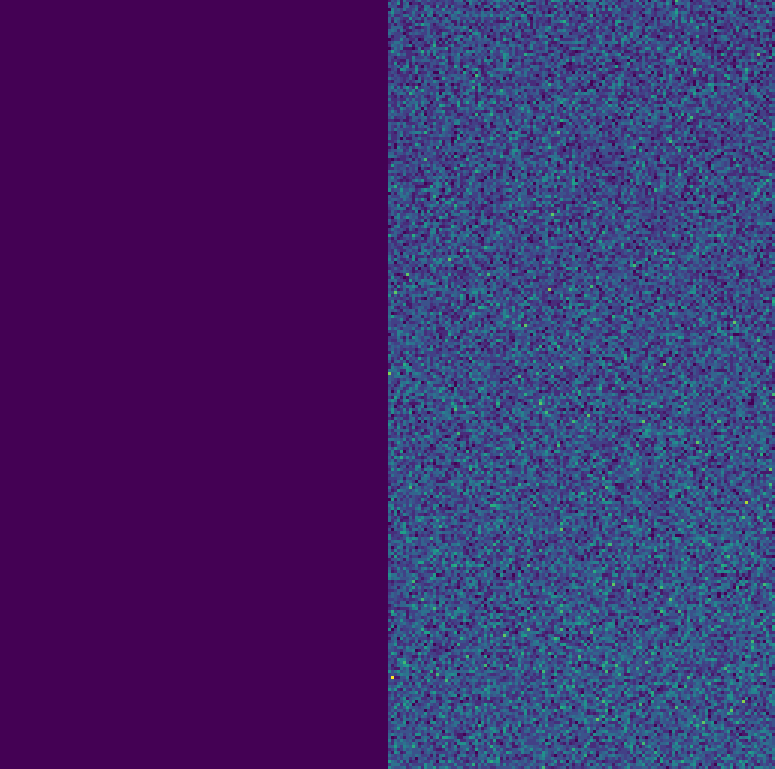
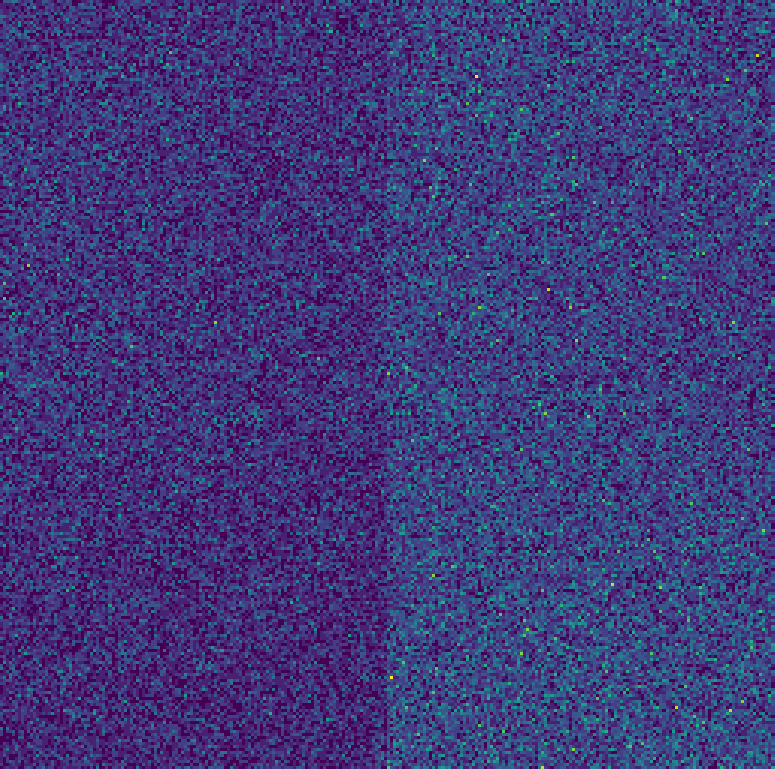
fixes made after the merge

diff --git a/experiments/toy/train_abs_unif.py b/experiments/toy/train_abs_unif.py
@@ -3,17 +3,19 @@ sys.path.append(".")
 
 import argparse
 from survae.flows import *
-from survae.transforms import Shift, Scale, ElementAbs
+from survae.transforms import Abs, Scale, Permute, ElementAbs
 from survae.nn.nets import MLP
 import survae
 from survae.data.datasets.toy import *
-from survae.distributions import StandardNormal, Bernoulli
+from survae.distributions import StandardNormal, Bernoulli, StandardUniform
 from survae.distributions import *
 from jax import random
 import jax.numpy as jnp 
 from flax import optim
 from matplotlib import pyplot as plt
-
+import ipdb
+from jax.config import config
+config.update("jax_debug_nans", True)
 
 parser = argparse.ArgumentParser()
 
@@ -70,7 +72,6 @@ elif args.dataset == 'eightgaussians':
     train_data = EightGaussiansDataset(args.train_samples).get_data()
     test_data = EightGaussiansDataset(args.test_samples).get_data()
 
-# data = EightGaussiansDataset(num_points=1000).get_data()
 
 # Define Transforms
 def init(key, shape, dtype=np.float32):
@@ -96,61 +97,45 @@ class Classifier(nn.Module):
         return x
 
 classifier = Classifier._setup([200, 100] , 1)
-# params = classifier.init(key, x)['params']
-# print(classifier.apply({'params':params}, x))
+element_abs = ElementAbs._setup(Bernoulli, classifier, 0)
 
-element_abs = ElementAbs._setup(Bernoulli, classifier, 1)
+transforms = [element_abs]
+transforms += [Shift._setup(jnp.array([0.0, 4.0])), Scale._setup(jnp.array([1/4, 1/8]))]
 
-transforms = [element_abs, Shift._setup(jnp.array([0.0, 4.0])), Scale._setup(jnp.array([1/4, 1/8]))]
 
 # Construct Flow
-absflow = AbsFlow(base_dist=StandardNormal, transforms=transforms, latent_size=(2,))
-params = absflow.init(key, rng, train_data[:2])
+absflow = AbsFlow(base_dist=StandardUniform, transforms=transforms, latent_size=(2,))
+params = absflow.init(key, rng=rng, x=train_data[:2])['params']
 
-def params_count(params):
-    _params = []
-    def flatten(_params, frozen_dict):
-        for k in frozen_dict:
-            if type(frozen_dict[k]) == type(frozen_dict):
-                flatten(_params, frozen_dict[k])
-            else:
-                _params.append(frozen_dict[k])
-    flatten(_params,params)
-    m = 0
-    for p in _params:
-        if type(p) != type(None):
-            m += np.array(p.shape).prod()
-    return m
-# print(params)
 
-# print(params_count(params))
-# print(params['params']['_transforms_0']['_classifier']['Dense_0']['kernel'][0,0])
-# exit(0)
+# Plot the model samples before training
+if args.dataset == 'face_einstein':
+    bounds = [[0, 1], [0, 1]]
+else:
+    bounds = [[-4, 4], [-4, 4]]
 
-# Plot training data
-# scat = plt.scatter(train_data[:, 0], train_data[:, 1], cmap="bwr", alpha=0.5, s=1)
-# plt.savefig('./experiments/toy/figures/train_data.png')
-# scat.remove()
+before_train = absflow.apply({"params":params}, rng=rng, num_samples=args.train_samples, method=absflow.sample)
 
-# # Plot the model samples before training
-# before_train = absflow.apply(params, rng, args.train_samples, method=absflow.sample)
-# scat = plt.scatter(before_train[:, 0], before_train[:, 1], cmap="bwr", alpha=0.5, s=1)
-# plt.savefig('./experiments/toy/figures/before_train.png')
-# scat.remove()
+plt.figure(figsize=(args.pixels/args.dpi, args.pixels/args.dpi), dpi=args.dpi)
+plt.hist2d(before_train[...,0], before_train[...,1], bins=256, range=bounds)
+plt.xlim(bounds[0])
+plt.ylim(bounds[1])
+plt.axis('off')
+plt.savefig('./experiments/toy/figures/{}_abs_flow_samples_before_training.png'.format(args.dataset), bbox_inches = 'tight', pad_inches = 0)
+
 
 # Define Optimizer
-optimizer_def = optim.Adam(learning_rate=args.lr)
-optimizer = optimizer_def.create(params)
+optimizer = optim.Adam(learning_rate=args.lr).create(params)
 
-# @jax.jit
+
+@jax.jit
 def loss_fn(params, batch):
-    return -jnp.mean(absflow.apply(params, rng, batch, method=absflow.log_prob))
+    return -jnp.mean(absflow.apply({"params":params}, rng=rng, x=batch, method=absflow.log_prob))
 
-# @jax.jit
+@jax.jit
 def train_step(optimizer, batch):
     grad_fn = jax.value_and_grad(loss_fn)
     loss_val, grad = grad_fn(optimizer.target, batch)
-    print(grad)
     optimizer = optimizer.apply_gradient(grad)
     return optimizer, loss_val
 
@@ -168,8 +153,12 @@ for e in range(args.epochs):
         validation_loss = loss_fn(optimizer.target, test_data)
         print('epoch %s/%s:' % (e, args.epochs), 'loss = %.3f' % batch_loss, 'val_loss = %0.3f' % validation_loss)
 
-after_train = absflow.apply(optimizer.target, rng, args.train_samples, method=absflow.sample)
-plt.scatter(after_train[:, 0], after_train[:, 1], cmap="bwr", alpha=0.5, s=1)
-plt.savefig('./experiments/toy/figures/after_train.png')
+after_train = absflow.apply({"params":optimizer.target}, rng=rng, num_samples=args.test_samples, method=absflow.sample)
+
+plt.figure(figsize=(args.pixels/args.dpi, args.pixels/args.dpi), dpi=args.dpi)
+plt.hist2d(after_train[...,0], after_train[...,1], bins=256, range=bounds)
+plt.xlim(bounds[0])
+plt.ylim(bounds[1])
+plt.axis('off')
+plt.savefig('./experiments/toy/figures/{}_abs_flow_samples_after_training.png'.format(args.dataset), bbox_inches = 'tight', pad_inches = 0)
 print("Done!")
-# print(params['params']['_transforms_0']['_classifier']['Dense_0']['kernel'][0,0])

diff --git a/experiments/toy/train_abs_flow.py b/experiments/toy/train_abs_flow.py
@@ -70,7 +70,6 @@ elif args.dataset == 'eightgaussians':
 	train_data = EightGaussiansDataset(args.train_samples).get_data()
 	test_data = EightGaussiansDataset(args.test_samples).get_data()
 
-# data = EightGaussiansDataset(num_points=1000).get_data()
 
 # Define Transforms
 transforms = [Abs._setup(Bernoulli)]
@@ -105,22 +104,15 @@ class Transform(nn.Module):
 
         return x, nn.tanh(log_scale)
 
-permutation = jnp.arange(1, -1 , -1)
 for layer in range(args.num_flows):
 	net = AffineCoupling._setup(Transform._setup(StandardNormal, args.hidden_units , train_data[0].shape[0]), _reverse_mask=layer % 2 != 0)
 	transforms.append(net)
-#     transforms.append(Permute._setup(permutation, 1))
-# transforms.pop()
 
 # Construct Flow
 absflow = Flow(base_dist=StandardNormal, transforms=transforms, latent_size=(2,))
 params = absflow.init(key, rng=rng,x=train_data[:2])
 
 
-# Plot training data
-# scat = plt.scatter(train_data[:, 0], train_data[:, 1], cmap="bwr", alpha=0.5, s=1)
-# plt.savefig('./experiments/toy/figures/train_data.png')
-# scat.remove()
 if args.dataset == 'face_einstein':
     bounds = [[0, 1], [0, 1]]
 else:
@@ -136,9 +128,7 @@ plt.savefig('./experiments/toy/figures/{}_train_data.png'.format(args.dataset), 
 
 # Plot the model samples before training
 before_train = absflow.apply(params, rng=rng, num_samples=args.train_samples, method=absflow.sample)
-# scat = plt.scatter(before_train[:, 0], before_train[:, 1], cmap="bwr", alpha=0.5, s=1)
-# plt.savefig('./experiments/toy/figures/before_train.png')
-# scat.remove()
+
 plt.figure(figsize=(args.pixels/args.dpi, args.pixels/args.dpi), dpi=args.dpi)
 plt.hist2d(before_train[...,0], before_train[...,1], bins=256, range=bounds)
 plt.xlim(bounds[0])
@@ -177,8 +167,7 @@ for e in range(args.epochs):
         print('epoch %s/%s:' % (e, args.epochs), 'loss = %.3f' % batch_loss, 'val_loss = %0.3f' % validation_loss)
 
 after_train = absflow.apply(optimizer.target, rng, args.test_samples, method=absflow.sample)
-# plt.scatter(after_train[:, 0], after_train[:, 1], cmap="bwr", alpha=0.5, s=1)
-# plt.savefig('./experiments/toy/figures/after_train.png')
+
 plt.figure(figsize=(args.pixels/args.dpi, args.pixels/args.dpi), dpi=args.dpi)
 plt.hist2d(after_train[...,0], after_train[...,1], bins=256, range=bounds)
 plt.xlim(bounds[0])
@@ -186,4 +175,3 @@ plt.ylim(bounds[1])
 plt.axis('off')
 plt.savefig('./experiments/toy/figures/{}_abs_flow_samples_after_training.png'.format(args.dataset), bbox_inches = 'tight', pad_inches = 0)
 print("Done!")
-# test
